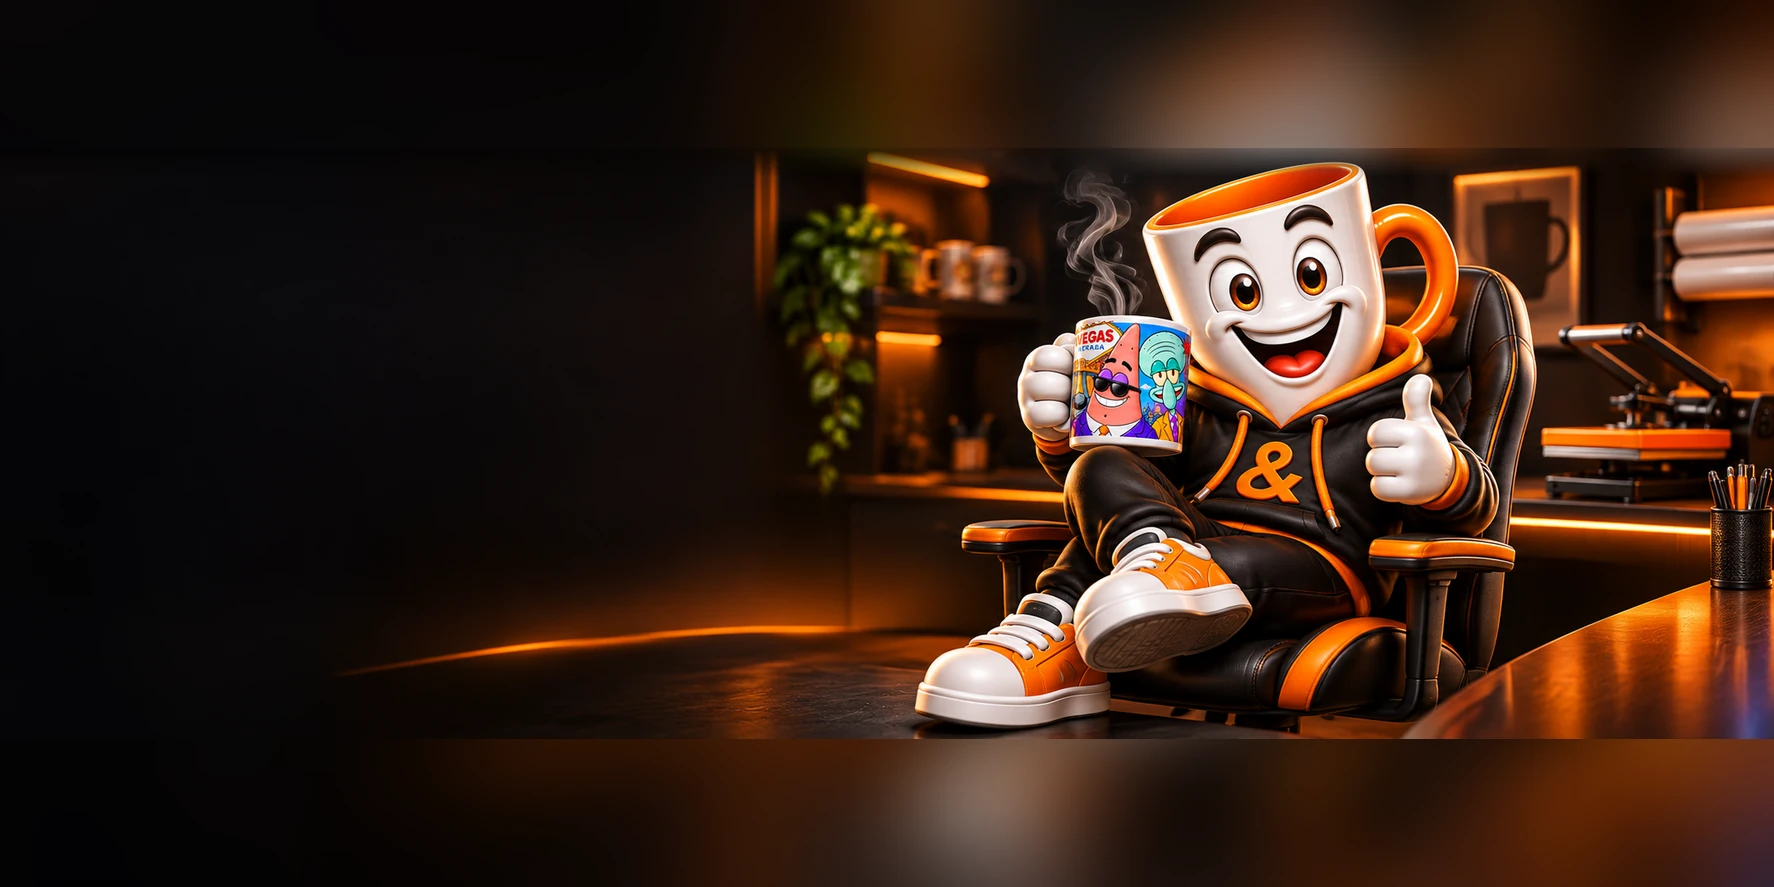
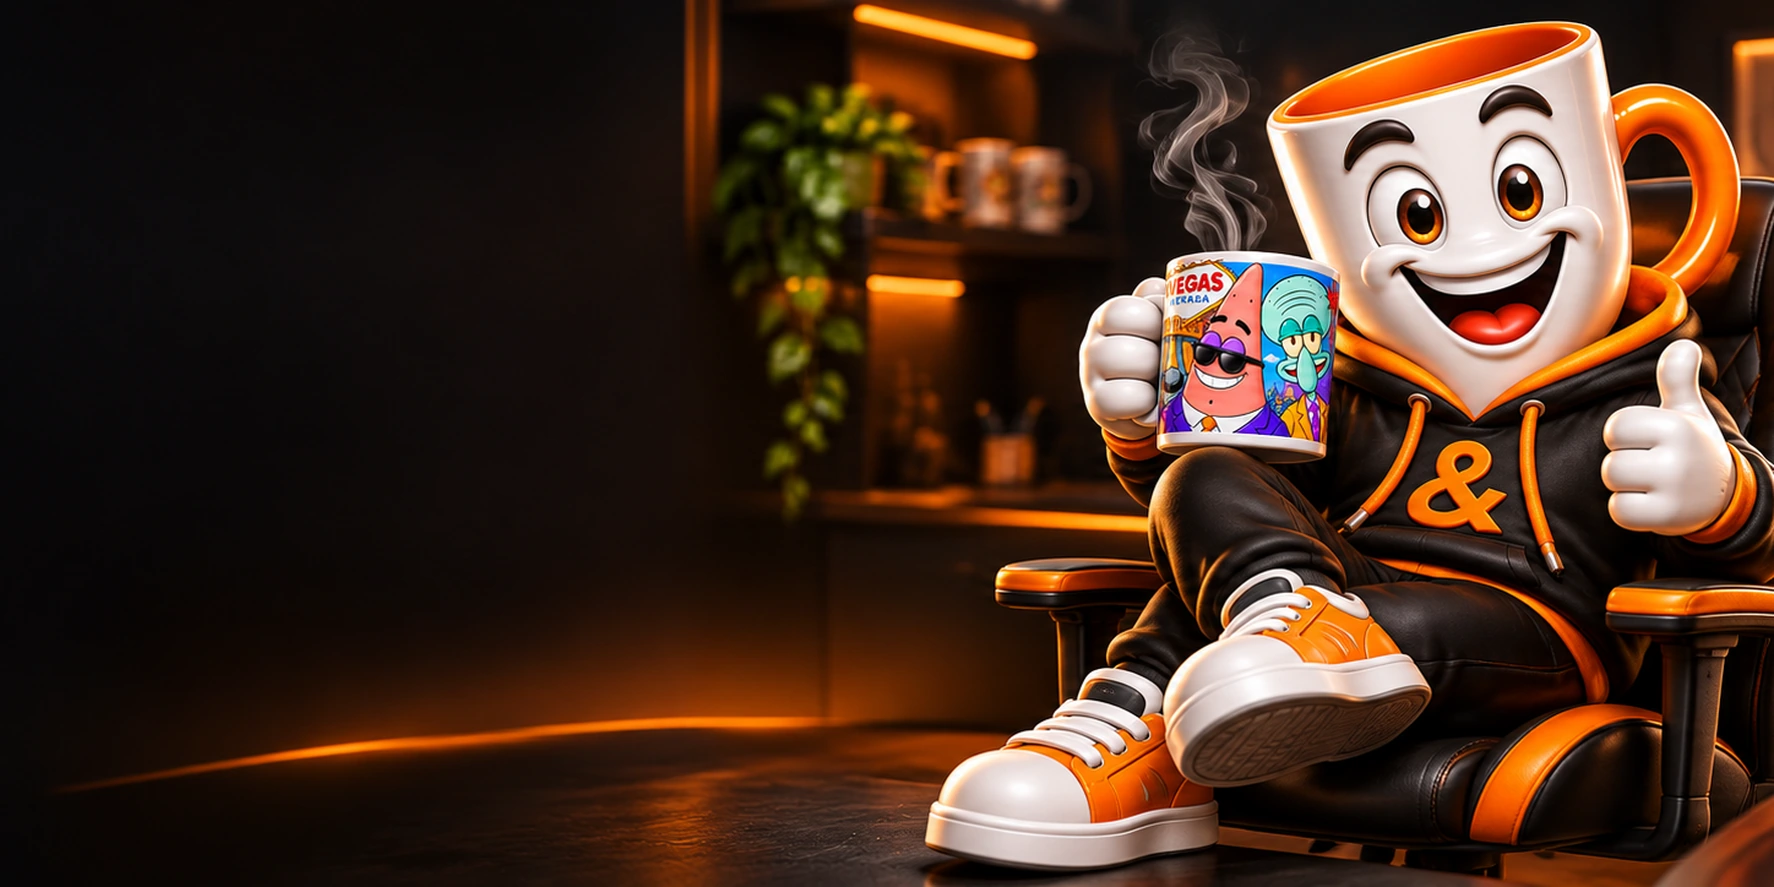
a

diff --git a/src/components/admin/LandingAnalyticsPanel.tsx b/src/components/admin/LandingAnalyticsPanel.tsx
@@ -16,9 +16,11 @@ type AnalyticsData = {
   views: number
   uniqueVisitors: number
   clicks: number
+  demoEntries: number
+  demoVisitors: number
   faq: number
   clickRate: number
-  trend: { day: string; views: number; uniqueVisitors: number; clicks: number }[]
+  trend: { day: string; views: number; uniqueVisitors: number; clicks: number; demoEntries: number }[]
   topClicks: { location: string; count: number }[]
   browserExcluded: boolean
   ignoredIps: string[]
@@ -126,6 +128,23 @@ export function LandingAnalyticsPanel() {
         </div>)}
       </div>
 
+      <div className="rounded-xl border border-orange-200 bg-orange-50/40 p-3 sm:p-4" aria-label="Acessos à conta de demonstração">
+        <h4 className="flex items-center gap-2 text-sm font-extrabold text-zinc-900"><Users className="h-4 w-4 text-orange-600" /> Acessos à DEMO</h4>
+        <p className="mt-1 text-xs text-zinc-600">Acessos liberados à demonstração pública no período selecionado. Não são apenas cliques no botão.</p>
+        <div className="mt-3 grid grid-cols-1 gap-3 sm:grid-cols-2">
+          <div className="rounded-xl border border-orange-200 bg-white p-4">
+            <p className="text-xs font-semibold text-zinc-600">Entradas na conta DEMO</p>
+            <p className="mt-1 text-3xl font-black tabular-nums text-zinc-900">{analyticsQ.isLoading ? '…' : money(analytics?.demoEntries)}</p>
+            <p className="mt-1 text-[11px] text-zinc-500">Total de acessos concluídos, incluindo retornos.</p>
+          </div>
+          <div className="rounded-xl border border-orange-200 bg-white p-4">
+            <p className="text-xs font-semibold text-zinc-600">Visitantes distintos na DEMO</p>
+            <p className="mt-1 text-3xl font-black tabular-nums text-zinc-900">{analyticsQ.isLoading ? '…' : money(analytics?.demoVisitors)}</p>
+            <p className="mt-1 text-[11px] text-zinc-500">Estimativa de navegadores diferentes, não pessoas identificadas.</p>
+          </div>
+        </div>
+      </div>
+
       <div className="rounded-xl border border-zinc-200 p-3 sm:p-4">
         <div className="mb-4 flex flex-wrap items-center justify-between gap-2">
           <h4 className="text-sm font-extrabold text-zinc-800">Evolução de visitas e interações</h4>
@@ -142,6 +161,7 @@ export function LandingAnalyticsPanel() {
               <Line type="monotone" name="Visitas" dataKey="views" stroke="#f97316" strokeWidth={2.5} dot={analytics.trend.length <= 7} isAnimationActive={false}/>
               <Line type="monotone" name="Únicos por dia" dataKey="uniqueVisitors" stroke="#6366f1" strokeWidth={2} dot={false} isAnimationActive={false}/>
               <Line type="monotone" name="Cliques" dataKey="clicks" stroke="#10b981" strokeWidth={2} dot={false} isAnimationActive={false}/>
+              <Line type="monotone" name="Entradas DEMO" dataKey="demoEntries" stroke="#a855f7" strokeWidth={2} dot={false} isAnimationActive={false}/>
             </LineChart>
           </ResponsiveContainer>
         </div> : <p className="py-14 text-center text-xs text-zinc-500">Não há dados nesse período.</p>}
@@ -168,7 +188,7 @@ export function LandingAnalyticsPanel() {
           </div>
         </div>
       </div>
-      <p className="text-[11px] leading-relaxed text-zinc-500">Dados coletados desde a ativação do contador. Visitantes únicos são estimativas por navegador, não pessoas; bloqueadores e trocas de navegador podem alterar a contagem. Os totais do gráfico são por dia; somar os únicos diários não corresponde necessariamente aos únicos de todo o período. A exclusão de IP vale para eventos futuros. Desativar a exclusão deste navegador volta a considerar também seu histórico anterior. Este controle afeta as métricas internas, não as configurações do Google Analytics.</p>
+      <p className="text-[11px] leading-relaxed text-zinc-500">Dados coletados desde a ativação de cada contador; acessos à DEMO anteriores a esta atualização não podem ser recuperados. Visitantes únicos são estimativas por navegador, não pessoas; bloqueadores e trocas de navegador podem alterar a contagem. Os totais do gráfico são por dia; somar os únicos diários não corresponde necessariamente aos únicos de todo o período. A exclusão de IP vale para eventos futuros. Desativar a exclusão deste navegador volta a considerar também seu histórico anterior. Este controle afeta as métricas internas, não as configurações do Google Analytics.</p>
     </section>
   )
 }

diff --git a/src/app/api/admin/analytics/route.ts b/src/app/api/admin/analytics/route.ts
@@ -47,8 +47,8 @@ export async function GET(req: Request) {
   const ignoredVisitors = readStringList(savedBrowsers?.value).filter(v => /^[0-9a-f]{64}$/.test(v))
   const ignoredIps = readStringList(savedIps?.value)
 
-  type Totals = { views: bigint; uniqueVisitors: bigint; clicks: bigint; faq: bigint; scrolls: bigint }
-  type Day = { day: string; views: bigint; uniqueVisitors: bigint; clicks: bigint }
+  type Totals = { views: bigint; uniqueVisitors: bigint; clicks: bigint; faq: bigint; scrolls: bigint; demoEntries: bigint; demoVisitors: bigint }
+  type Day = { day: string; views: bigint; uniqueVisitors: bigint; clicks: bigint; demoEntries: bigint }
   type Top = { location: string; count: bigint }
   const [totals, byDay, topClicks] = await Promise.all([
     db.$queryRaw<Totals[]>`
@@ -56,14 +56,17 @@ export async function GET(req: Request) {
              COUNT(DISTINCT "visitorId") FILTER (WHERE name = 'landing_view') AS "uniqueVisitors",
              COUNT(*) FILTER (WHERE name = 'cta_click') AS clicks,
              COUNT(*) FILTER (WHERE name = 'faq_open') AS faq,
-             COUNT(*) FILTER (WHERE name = 'scroll_depth') AS scrolls
+             COUNT(*) FILTER (WHERE name = 'scroll_depth') AS scrolls,
+             COUNT(*) FILTER (WHERE name = 'demo_entry') AS "demoEntries",
+             COUNT(DISTINCT "visitorId") FILTER (WHERE name = 'demo_entry') AS "demoVisitors"
       FROM "SiteEvent" WHERE "createdAt" >= ${from} AND "createdAt" < ${to}
         AND NOT ("visitorId" = ANY(${ignoredVisitors}::text[]))`,
     db.$queryRaw<Day[]>`
       SELECT to_char(("createdAt" AT TIME ZONE 'UTC' AT TIME ZONE 'America/Sao_Paulo')::date, 'YYYY-MM-DD') AS day,
              COUNT(*) FILTER (WHERE name = 'landing_view') AS views,
              COUNT(DISTINCT "visitorId") FILTER (WHERE name = 'landing_view') AS "uniqueVisitors",
-             COUNT(*) FILTER (WHERE name = 'cta_click') AS clicks
+             COUNT(*) FILTER (WHERE name = 'cta_click') AS clicks,
+             COUNT(*) FILTER (WHERE name = 'demo_entry') AS "demoEntries"
       FROM "SiteEvent" WHERE "createdAt" >= ${from} AND "createdAt" < ${to}
         AND NOT ("visitorId" = ANY(${ignoredVisitors}::text[]))
       GROUP BY 1 ORDER BY 1`,
@@ -74,11 +77,11 @@ export async function GET(req: Request) {
       GROUP BY 1 ORDER BY count DESC LIMIT 8`,
   ])
   const daily = new Map(byDay.map(d => [d.day, d]))
-  const trend: Array<{ day: string; views: number; uniqueVisitors: number; clicks: number }> = []
+  const trend: Array<{ day: string; views: number; uniqueVisitors: number; clicks: number; demoEntries: number }> = []
   for (let t = Date.parse(`${start}T12:00:00Z`); t <= Date.parse(`${end}T12:00:00Z`); t += DAY_MS) {
     const day = isoDay(new Date(t))
     const row = daily.get(day)
-    trend.push({ day, views: Number(row?.views ?? 0), uniqueVisitors: Number(row?.uniqueVisitors ?? 0), clicks: Number(row?.clicks ?? 0) })
+    trend.push({ day, views: Number(row?.views ?? 0), uniqueVisitors: Number(row?.uniqueVisitors ?? 0), clicks: Number(row?.clicks ?? 0), demoEntries: Number(row?.demoEntries ?? 0) })
   }
   const total = totals[0]
   const visits = Number(total?.views ?? 0)
@@ -87,6 +90,7 @@ export async function GET(req: Request) {
   return Response.json({
     range, start, end, views: visits, uniqueVisitors: Number(total?.uniqueVisitors ?? 0),
     clicks, faq: Number(total?.faq ?? 0), scrolls: Number(total?.scrolls ?? 0),
+    demoEntries: Number(total?.demoEntries ?? 0), demoVisitors: Number(total?.demoVisitors ?? 0),
     clickRate: visits ? Math.round((clicks / visits) * 1000) / 10 : 0,
     trend, topClicks: topClicks.map(e => ({ location: e.location, count: Number(e.count) })),
     browserExcluded: isInternalCookie(cookieStore.get(ANALYTICS_IGNORE_COOKIE)?.value),

diff --git a/src/app/api/auth/demo/route.ts b/src/app/api/auth/demo/route.ts
@@ -1,12 +1,52 @@
+import { cookies } from 'next/headers'
+import { db } from '@/lib/db'
 import { createPublicDemoSession, getSessionUser, jsonError } from '@/lib/auth'
+import {
+  ANALYTICS_IGNORE_COOKIE, ANALYTICS_IGNORE_IPS_KEY, ANALYTICS_IGNORE_VISITORS_KEY,
+  getClientIp, isInternalCookie, readStringList, validVisitorId, visitorHash,
+} from '@/lib/analytics-privacy'
+
+/** Conta acessos bem-sucedidos à demonstração pública no SiteEvent existente.
+ * Sem alterar schema, sem guardar IP, nome ou dados pessoais dos visitantes.
+ * Um navegador pode entrar várias vezes; visitantes únicos são deduplicados pelo hash do ID local.
+ */
+async function recordDemoEntry(req: Request, body: unknown) {
+  const payload = body && typeof body === 'object' ? body as Record<string, unknown> : {}
+  if (!validVisitorId(payload.visitorId)) return
+  const cookieStore = await cookies()
+  if (isInternalCookie(cookieStore.get(ANALYTICS_IGNORE_COOKIE)?.value)) return
+
+  const visitorId = visitorHash(payload.visitorId)
+  const [excludedBrowsers, excludedIps] = await Promise.all([
+    db.setting.findUnique({ where: { key: ANALYTICS_IGNORE_VISITORS_KEY } }),
+    db.setting.findUnique({ where: { key: ANALYTICS_IGNORE_IPS_KEY } }),
+  ])
+  if (readStringList(excludedBrowsers?.value).includes(visitorId)) return
+  const ip = getClientIp(req.headers)
+  if (ip && readStringList(excludedIps?.value).includes(ip)) return
+
+  // Evita duplicações por duplo clique/reenvio imediato, mas mantém visitas posteriores.
+  const since = new Date(Date.now() - 2_000)
+  if (await db.siteEvent.count({ where: { visitorId, name: 'demo_entry', createdAt: { gte: since } } })) return
+  const location = typeof payload.location === 'string'
+    ? payload.location.slice(0, 70).replace(/[^a-zA-Z0-9_-]/g, '') : ''
+  await db.siteEvent.create({ data: { visitorId, name: 'demo_entry', location } })
+}
 
 export async function POST(req: Request) {
   const origin = req.headers.get('origin')
   if (origin && origin !== new URL(req.url).origin) return jsonError('Origem não permitida.', 403)
   try {
+    const body: unknown = await req.json().catch(() => null)
     const existing = await getSessionUser()
     // Uma conta ativa ou de administrador mantém sua própria sessão.
     const user = existing && (existing.hasAccess || existing.role === 'ADMIN') ? existing : await createPublicDemoSession()
+    // Registra apenas DEMO pública realmente liberada; nunca contabiliza administradores.
+    // Eventuais falhas do contador não impedem o visitante de explorar a plataforma.
+    if (user.isPublicDemo && existing?.role !== 'ADMIN') {
+      try { await recordDemoEntry(req, body) }
+      catch (error) { console.warn('Contador de DEMO indisponível:', error instanceof Error ? error.message : 'erro') }
+    }
     return Response.json({ user }, { headers: { 'Cache-Control': 'private, no-store' } })
   } catch {
     return jsonError('Não foi possível abrir a demonstração. Tente novamente.', 503)

diff --git a/src/lib/demo-client.ts b/src/lib/demo-client.ts
@@ -5,7 +5,18 @@ import { useStore, type AuthMode, type SessionUser } from '@/lib/store'
 import { track } from '@/lib/analytics'
 
 export async function enterPublicDemo(queryClient: QueryClient, location: string) {
-  const response = await fetch('/api/auth/demo', { method: 'POST', headers: { 'Content-Type': 'application/json' }, body: '{}' })
+  let visitorId: string | undefined
+  try {
+    visitorId = window.localStorage.getItem('cg-anon-visitor') || undefined
+    if (!visitorId) {
+      visitorId = window.crypto.randomUUID()
+      window.localStorage.setItem('cg-anon-visitor', visitorId)
+    }
+  } catch { /* Navegadores com armazenamento bloqueado continuam podendo acessar a DEMO. */ }
+  const response = await fetch('/api/auth/demo', {
+    method: 'POST', headers: { 'Content-Type': 'application/json' },
+    body: JSON.stringify({ visitorId, location }),
+  })
   const data = await response.json()
   if (!response.ok || !data.user?.hasAccess) throw new Error(data.error || 'Não foi possível abrir a demonstração.')
   // Limpa artes e dados da identidade anterior antes de montar o portal.

diff --git a/src/components/views/LandingView.tsx b/src/components/views/LandingView.tsx
@@ -83,10 +83,10 @@ export function LandingView() {
     <main>
       <section className="cg-home-hero" aria-labelledby="home-hero-title">
         <picture className="cg-home-hero-art" aria-hidden="true">
-          <source media="(max-width: 1023px)" srcSet="/uploads/rebrand/hero-mascote-cadeira-mobile-2026.webp" />
+          <source media="(max-width: 1023px)" srcSet="/uploads/rebrand/hero-mascote-cadeira-mobile-2026.webp?v=2" />
           {/* Precompressed art direction: load only the matching mobile/desktop asset. */}
           {/* eslint-disable-next-line @next/next/no-img-element */}
-          <img src="/uploads/rebrand/hero-mascote-cadeira-landing-2026.webp" width={1774} height={887} alt="" fetchPriority="high" loading="eager" decoding="async" />
+          <img src="/uploads/rebrand/hero-mascote-cadeira-landing-2026.webp?v=2" width={1774} height={887} alt="" fetchPriority="high" loading="eager" decoding="async" />
         </picture>
         <div className="cg-home-hero-shade" aria-hidden="true" />
         <div className="cg-home-hero-inner">

diff --git a/README-CORRECOES-HERO-DEMO-2026-11-01.md b/README-CORRECOES-HERO-DEMO-2026-11-01.md
@@ -1,0 +1,20 @@
+# Click & Gruda — Correção do hero + contador de DEMO
+
+## Hero da landing
+- Corrigidas as duas imagens com faixas horizontais embutidas (desktop e celular), usando recortes da arte original sem faixas.
+- Não foi alterada a estrutura, altura ou conteúdo da seção do hero; `object-fit: cover` existente continua funcionando.
+- URLs das artes usam `?v=2` para evitar ver a imagem antiga em cache.
+
+## Contador de DEMO
+- O clique bem-sucedido que abre a demonstração pública agora grava `demo_entry` em `SiteEvent`, reutilizando a tabela já existente.
+- As métricas aparecem em `Painel Master > Estatísticas da landing` nos filtros Hoje/7 dias/30 dias/personalizado:
+  * Entradas na conta DEMO (inclui reentradas).
+  * Visitantes distintos na DEMO (navegadores anônimos estimados).
+  * Gráfico diário das entradas.
+- O sistema ignora o administrador, os navegadores e IPs excluídos, não armazena endereço IP nos eventos e evita duplicar cliques simultâneos de um navegador.
+- Nenhuma tabela nova, migração SQL ou mudança no `schema.prisma`.
+- Contagem começa após a publicação; não é possível resgatar visitas antigas que não foram registradas.
+- A falha do contador não bloqueia o acesso à DEMO.
+
+## Deploy
+Preserve `.env` e `.git`, substitua o restante pelo ZIP FULL e rode `npm ci` e `npm run build`. Faça backup previamente.
